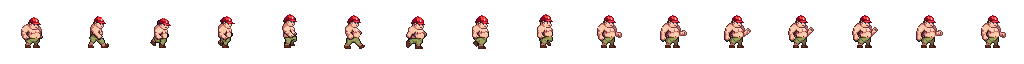
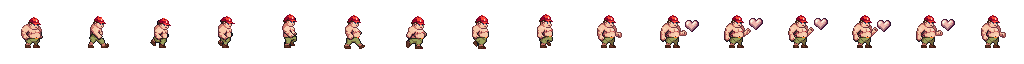
Enemy attack animations

diff --git a/src/Enemy.js b/src/Enemy.js
@@ -30,7 +30,7 @@ export class Enemy extends Phaser.Physics.Matter.Sprite {
         this.idleTimer = null; // Timer for idling
         this.ignorePlatformRotation = false;
         this.player = null; // Reference to the player
-        this.attackRange = 50; // Distance to start attacking
+        this.attackRange = 60; // Distance to start attacking
         this.canBeJuggled = true;
         this.isMarkedForDeath = false;
 
@@ -49,7 +49,7 @@ export class Enemy extends Phaser.Physics.Matter.Sprite {
         ]); // Collide with blocks, player, and attack
         this.setScale(2);
         this.setRotation(0);
-        this.setDepth(2);
+        this.setDepth(6);
         this.name = 'maga';
 
         this.flipX = true;
@@ -202,7 +202,7 @@ export class Enemy extends Phaser.Physics.Matter.Sprite {
         if (!this.active) return;
         this.setVelocityX(0);
         // Play attack animation if available, or just stop movement
-        // this.anims.play('enemyAttack');
+        this.anims.play('enemyAttack');
 
         this.scene.player.takeDamage(1);
 

diff --git a/src/scenes/GameScene.js b/src/scenes/GameScene.js
@@ -210,6 +210,15 @@ export class GameScene extends Scene {
         });
 
         this.anims.create({
+            key: 'enemyAttack',
+            frames: this.anims.generateFrameNumbers('maga', {
+                start: 9,
+                end: 15,
+            }),
+            frameRate: 20,
+        });
+
+        this.anims.create({
             key: 'lawyerWalk',
             frames: this.anims.generateFrameNumbers('lawyer', {
                 start: 1,
